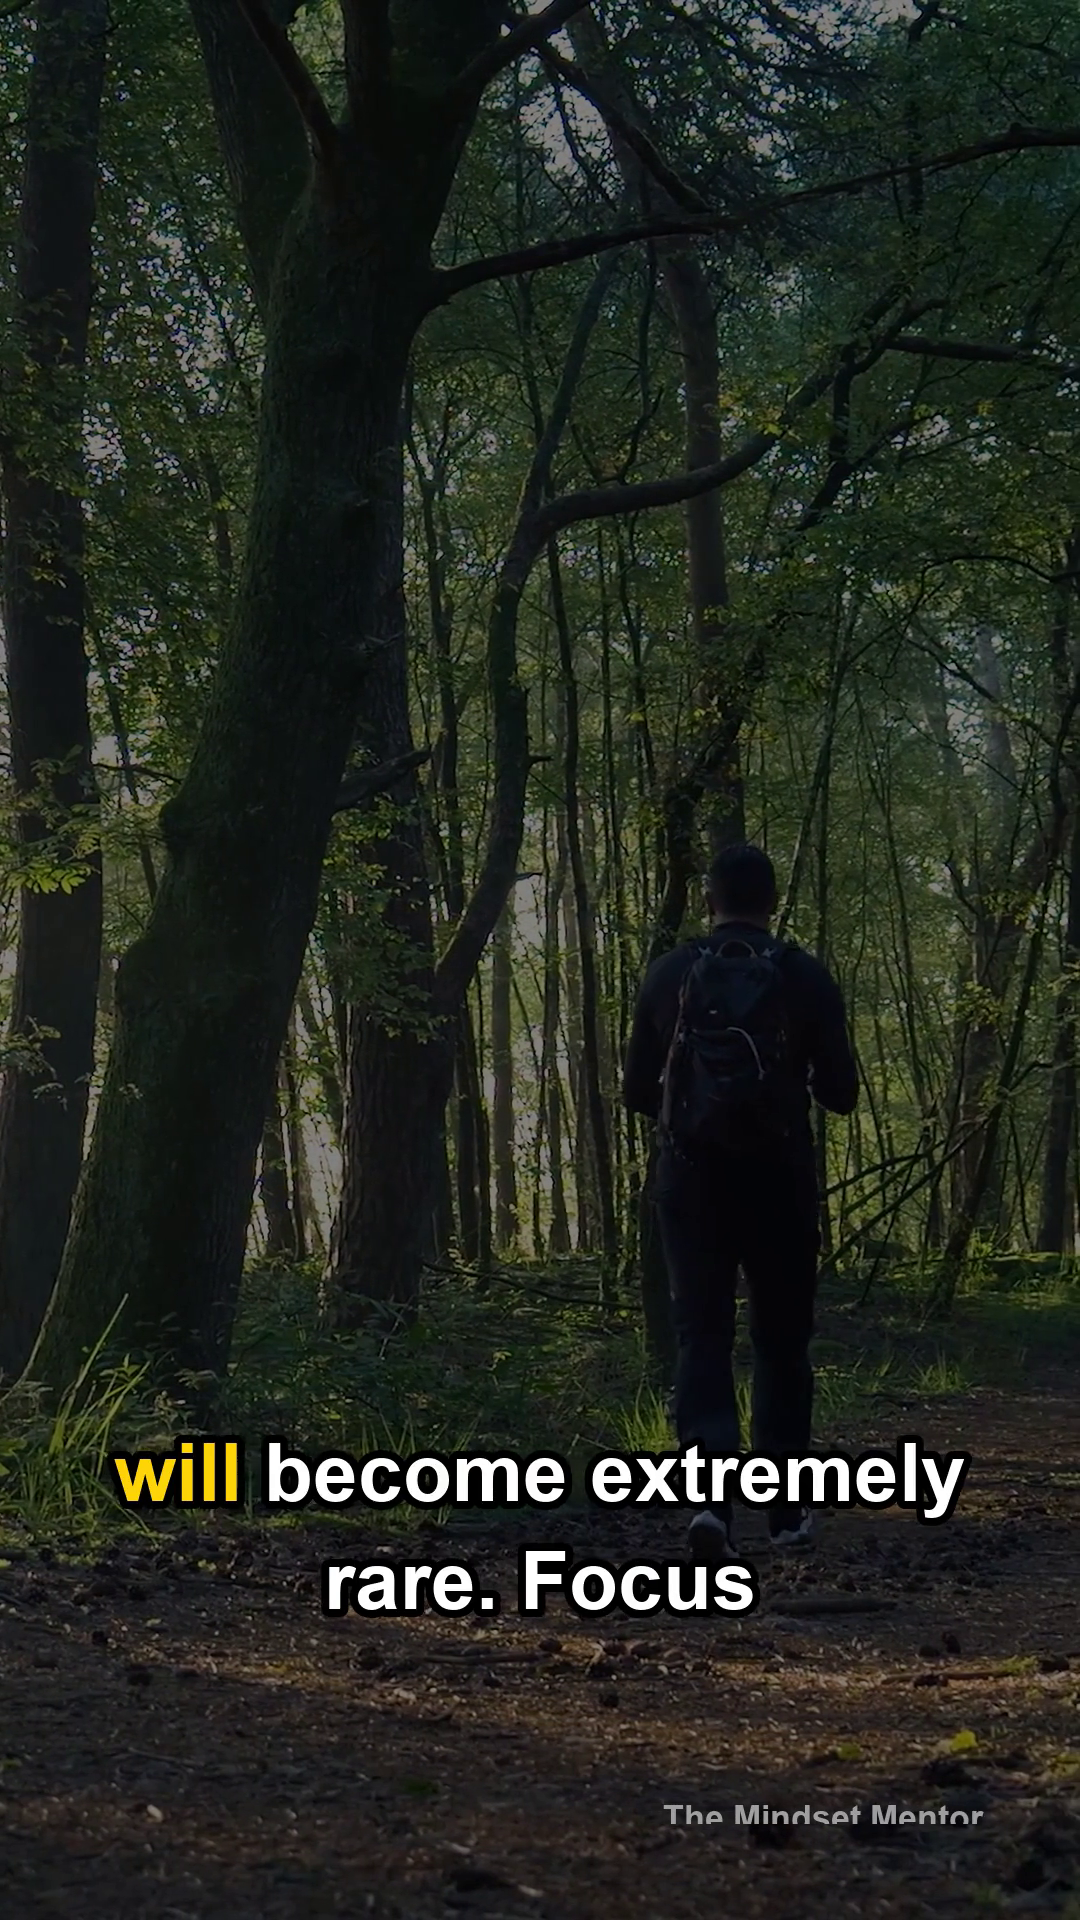
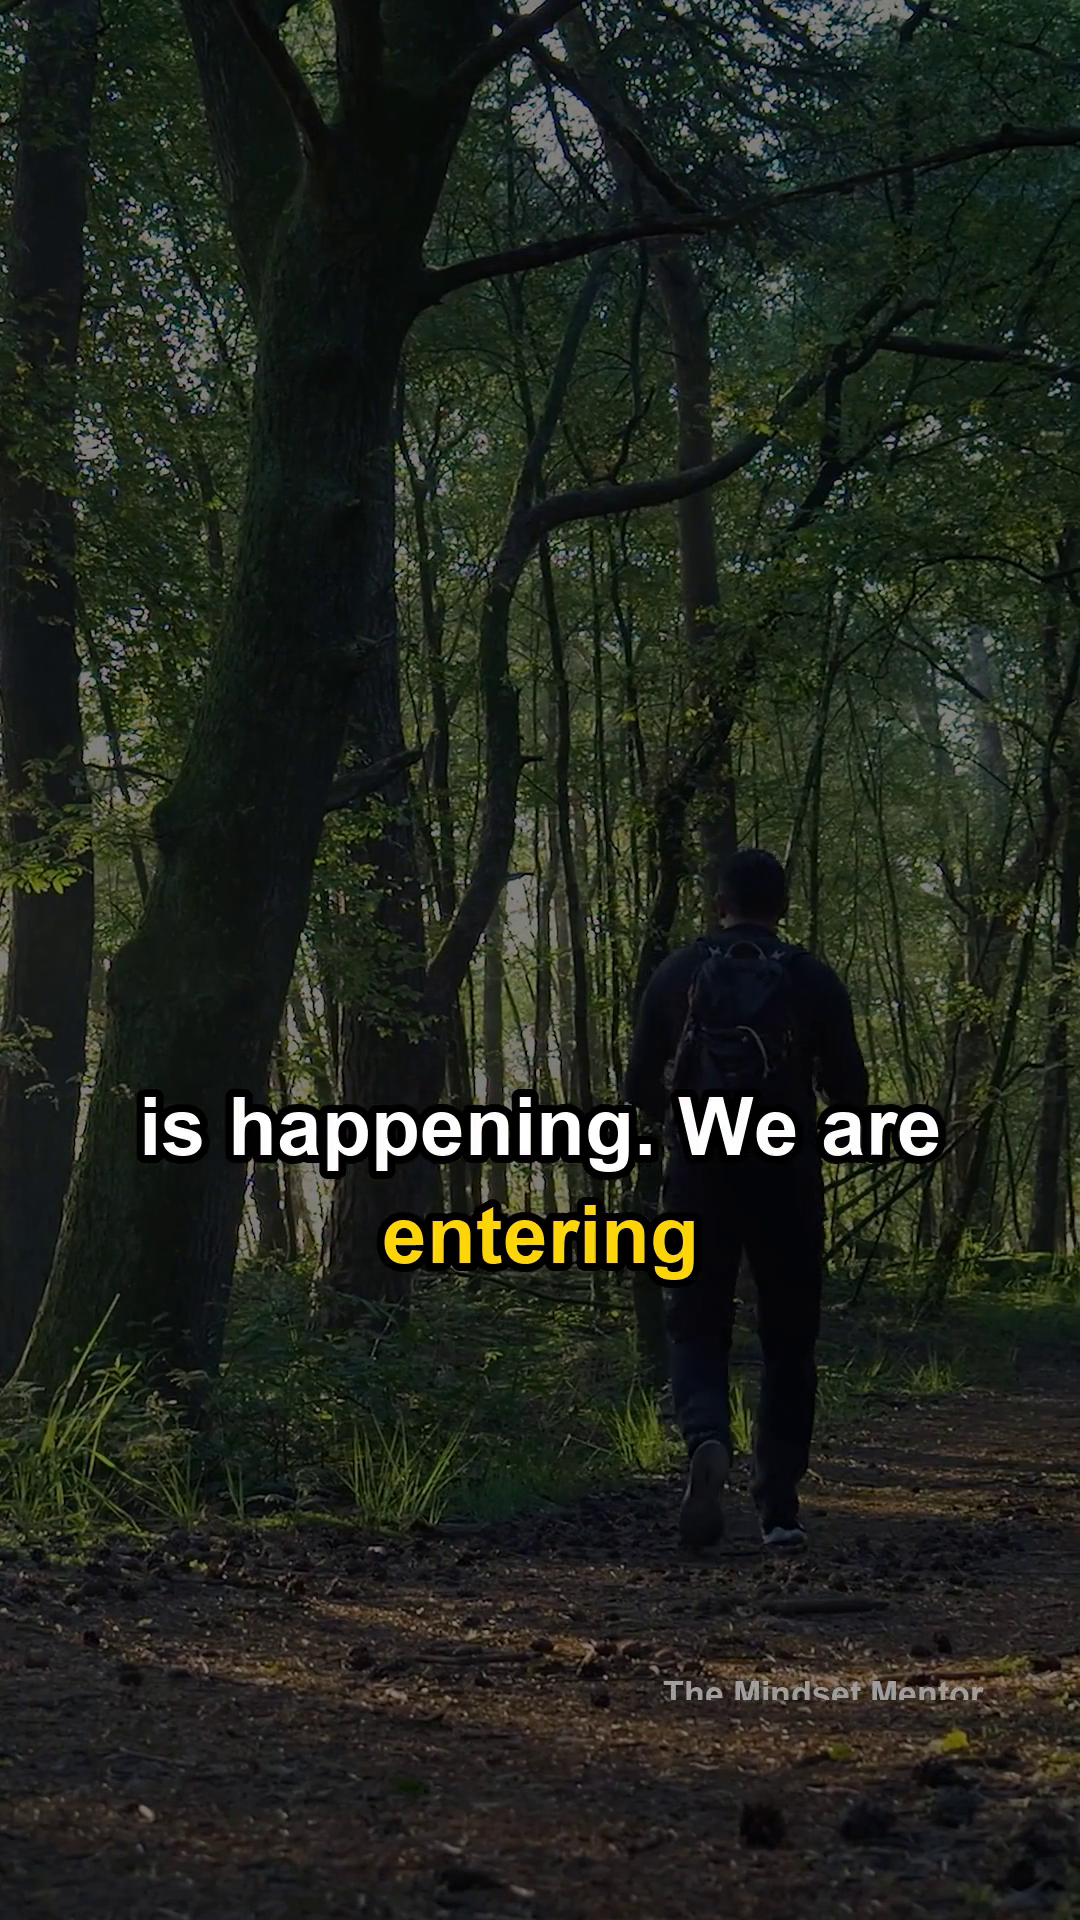
fixing bug for video context

diff --git a/modules/ai_extract.py b/modules/ai_extract.py
@@ -29,10 +29,14 @@ SYSTEM_PROMPT = (
     '  "best_quote"  : string — the most quotable verbatim line from the transcript.\n'
     '  "title"       : string — a punchy video title (<= 80 chars).\n'
     '  "clip_start"  : number — MUST be the exact start timestamp of one of the '
-    "segments in the provided list.\n"
+    "segments in the provided list, AND must fall at the BEGINNING of a complete "
+    "thought (the start of a sentence or idea), never mid-sentence.\n"
     '  "clip_end"    : number — MUST be the exact end timestamp of a LATER segment '
-    "in the list. The window (clip_end - clip_start) MUST be between "
-    f"{config.CLIP_WINDOW_MIN_SECONDS} and {config.CLIP_WINDOW_MAX_SECONDS} seconds.\n"
+    "in the list, AND must fall at the END of a complete thought or conclusion. "
+    "The clip MUST contain a full, self-contained idea WITH its payoff. NEVER cut "
+    "off mid-sentence, and NEVER end on a setup/cliffhanger such as \"...this is "
+    "what I want you to do\" or \"...here's the thing\" without the actual point "
+    "that follows. The last segment must deliver the resolution, not tee it up.\n"
     '  "hashtags"    : array of strings — 3 to 8 relevant hashtags, each '
     'starting with "#".\n'
     '  "image_prompts": array of exactly 4 strings — cinematic visual '
@@ -51,6 +55,16 @@ SYSTEM_PROMPT = (
     'trail", "morning coffee desk", "gym workout dark". Keep them concrete and '
     "visual, NOT abstract concepts. They should match the same themes as the "
     "image_prompts.\n\n"
+    "Clip length: aim for a window of "
+    f"{config.CLIP_WINDOW_MIN_SECONDS}-{config.CLIP_WINDOW_MAX_SECONDS} seconds. "
+    "You may run slightly longer, but (clip_end - clip_start) MUST NEVER exceed "
+    f"{config.CLIP_WINDOW_MAX_HARD_SECONDS} seconds under ANY circumstances. "
+    "Within that hard limit, COMPLETENESS BEATS EXACT LENGTH: prefer a contiguous "
+    "run of segments that forms a complete mini-story or a complete piece of "
+    "advice (setup AND payoff) over hitting a precise duration. If a complete "
+    f"thought will not fit within {config.CLIP_WINDOW_MAX_HARD_SECONDS} seconds, "
+    "pick a SHORTER self-contained thought that does fit — do NOT exceed the "
+    "limit to capture a longer passage.\n\n"
     "The transcript is given as timestamped segments, one per line, formatted "
     "[start-end] text. Choose a contiguous run of segments that forms a "
     "self-contained, compelling moment, and set clip_start to that run's first "
@@ -123,12 +137,66 @@ def _validate(data: dict) -> None:
         raise ValueError("'search_queries' must be non-empty strings")
 
     window = data["clip_end"] - data["clip_start"]
-    lo, hi = config.CLIP_WINDOW_MIN_SECONDS, config.CLIP_WINDOW_MAX_SECONDS
+    lo, hi = config.CLIP_WINDOW_MIN_SECONDS, config.CLIP_WINDOW_MAX_HARD_SECONDS
     if not (lo <= window <= hi):
         raise ValueError(
             f"clip window {window:.1f}s outside allowed range [{lo}, {hi}]s "
             f"(start={data['clip_start']}, end={data['clip_end']})"
         )
+
+
+_SENTENCE_END = (".", "!", "?")
+
+
+def _ends_sentence(word: str) -> bool:
+    """True if a word token ends a sentence (terminal punctuation, ignoring
+    any trailing quote/bracket characters)."""
+    return word.rstrip("\"')]}").endswith(_SENTENCE_END)
+
+
+def _snap_to_sentences(data: dict, words: list) -> None:
+    """Snap clip_start/clip_end onto real sentence boundaries (in place).
+
+    Groq Whisper word tokens carry punctuation, so we snap to word timestamps at
+    sentence edges rather than to coarse Whisper *segment* edges (which routinely
+    fall mid-sentence and would leave the clip ending on a cliffhanger).
+
+    clip_start -> the start time of the nearest sentence-opening word.
+    clip_end   -> the end time of the nearest sentence-closing word.
+
+    Because both targets are word boundaries, the clip never cuts a word in half;
+    because they are sentence edges, it never opens or ends mid-thought.
+    """
+    ws = [
+        w for w in words
+        if w.get("start") is not None and w.get("end") is not None and (w.get("word") or "").strip()
+    ]
+    if not ws:
+        return
+
+    # End times of words that close a sentence.
+    end_times = [w["end"] for w in ws if _ends_sentence(w["word"])]
+    # Start times of words that open a sentence (first word, or after a closer).
+    start_times = [ws[0]["start"]] + [
+        ws[i]["start"] for i in range(1, len(ws)) if _ends_sentence(ws[i - 1]["word"])
+    ]
+    if not end_times or not start_times:
+        return
+
+    cs, ce = data["clip_start"], data["clip_end"]
+    new_start = min(start_times, key=lambda t: abs(t - cs))
+    new_end = min(end_times, key=lambda t: abs(t - ce))
+
+    # Guard against a degenerate snap (end at/before start): fall back to raw end.
+    if new_end <= new_start:
+        new_end = ce
+
+    if (new_start, new_end) != (cs, ce):
+        logger.info(
+            "Snapped clip to sentence boundaries: %.2f-%.2f -> %.2f-%.2f",
+            cs, ce, new_start, new_end,
+        )
+    data["clip_start"], data["clip_end"] = new_start, new_end
 
 
 def _format_segments(segments: list) -> str:
@@ -179,6 +247,18 @@ def extract_highlights(transcript: dict) -> dict:
     raw = next((b.text for b in response.content if b.type == "text"), "")
     parsed = json.loads(_strip_to_json(raw))
     _validate(parsed)
+
+    # Snap onto real sentence boundaries so the clip never cuts a word in half
+    # and never opens/ends mid-thought.
+    words = transcript.get("words") if isinstance(transcript, dict) else None
+    if words:
+        _snap_to_sentences(parsed, words)
+        window = parsed["clip_end"] - parsed["clip_start"]
+        if window > config.CLIP_WINDOW_MAX_HARD_SECONDS:
+            logger.warning(
+                "Snapped clip window %.1fs exceeds hard max %ds",
+                window, config.CLIP_WINDOW_MAX_HARD_SECONDS,
+            )
 
     logger.info("Extracted clip: %.1f-%.1fs | title=%r", parsed["clip_start"], parsed["clip_end"], parsed["title"])
     return parsed

diff --git a/config.py b/config.py
@@ -54,9 +54,13 @@ MAX_CLIPS_PER_EPISODE = 5
 # Using its drop-in replacement, the current Sonnet.
 EXTRACT_MODEL = "claude-sonnet-4-6"
 EXTRACT_MAX_TOKENS = 2000
-# Target clip window the model must pick, in seconds.
+# Target clip window the model should aim for, in seconds.
 CLIP_WINDOW_MIN_SECONDS = 45
 CLIP_WINDOW_MAX_SECONDS = 65
+# Hard upper bound: the model may run longer than the target ONLY to finish a
+# complete thought (completeness beats exact length). Snapping clip_end to a
+# segment boundary can also push past the target, so validation allows up to here.
+CLIP_WINDOW_MAX_HARD_SECONDS = 75
 
 # --- Slide dimensions (pixels) ---
 # Vertical 9:16 for Reels/Shorts; switch to 1920x1080 for landscape YouTube.
@@ -113,7 +117,7 @@ CAPTION_STROKE_COLOR = (0, 0, 0)         # black outline
 CAPTION_STROKE_WIDTH = 8
 CAPTION_WORDS_PER_GROUP = 5              # max words shown at once
 CAPTION_GROUP_GAP = 0.7                  # a pause longer than this starts a new group
-CAPTION_CENTER_Y = 0.80                  # vertical center of the caption block (lower 35%)
+CAPTION_CENTER_Y = 0.62                  # vertical center of caption block; kept above the Reels/Shorts bottom UI
 CAPTION_LINE_SPACING = 1.2
 
 # Hook text (top of frame, first few seconds only).
@@ -122,6 +126,8 @@ HOOK_COLOR = "white"
 HOOK_DURATION = 3.0                  # seconds
 HOOK_TOP = 0.08                      # fraction of height
 
-# Podcast-name watermark (bottom-right, muted).
+# Podcast-name watermark (right side, muted). Kept well inside the safe area —
+# the bottom of the text sits at WATERMARK_BASELINE_Y so there's clear padding below.
 WATERMARK_FONT_SIZE = 34
 WATERMARK_COLOR = (160, 160, 160)
+WATERMARK_BASELINE_Y = 1700              # px (of 1920): bottom edge of the watermark text

diff --git a/modules/video_gen.py b/modules/video_gen.py
@@ -350,7 +350,11 @@ def build_video(
                 color=config.WATERMARK_COLOR,
             ).with_duration(window)
             ww, wh = wm.size
-            wm = wm.with_position((w - margin - ww, h - margin - wh))
+            # Bottom edge at WATERMARK_BASELINE_Y (clear padding below); clamp x
+            # so the full text never runs off the left even if it's wide.
+            wm_x = max(margin, w - margin - ww)
+            wm_y = config.WATERMARK_BASELINE_Y - wh
+            wm = wm.with_position((wm_x, wm_y))
             layers.append(wm)
 
         video = CompositeVideoClip(layers, size=(w, h)).with_audio(clip_audio).with_duration(window)

diff --git a/CLAUDE.md b/CLAUDE.md
@@ -1,0 +1,82 @@
+# CLAUDE.md
+
+This file provides guidance to Claude Code (claude.ai/code) when working with code in this repository.
+
+## What this is
+
+A podcast-to-short-form-video pipeline. For the latest episode of an RSS feed it:
+ingest → transcribe → AI clip plan → pick background → render a vertical karaoke-captioned MP4 → upload → publish.
+
+Windows-first (font paths, PowerShell setup). Python 3.12.
+
+## Commands
+
+Always use the venv interpreter explicitly — there is no activated shell assumed:
+
+```powershell
+# Full pipeline (see "main.py is stale" gotcha below before relying on this)
+.\venv\Scripts\python.exe main.py mindset_mentor      # feed key from config.PODCAST_FEEDS
+.\venv\Scripts\python.exe main.py https://...rss       # or a raw RSS URL
+
+# Install deps
+.\venv\Scripts\python.exe -m pip install -r requirements.txt
+```
+
+### Running / "testing" individual stages
+
+There is **no pytest suite**. Each module under `modules/` has a `__main__` smoke harness that *is* the test — run a stage in isolation from the repo root:
+
+```powershell
+.\venv\Scripts\python.exe -m modules.rss_ingest     # fetch + download latest episode -> tmp/
+.\venv\Scripts\python.exe -m modules.transcribe      # transcribe newest tmp/*.mp3
+.\venv\Scripts\python.exe -m modules.ai_extract      # transcribe + extract clip plan
+.\venv\Scripts\python.exe -m modules.slide_gen       # render slides from built-in SAMPLE_HIGHLIGHTS (no API calls)
+.\venv\Scripts\python.exe -m modules.pexels_bg       # fetch stock backgrounds from cached plan
+.\venv\Scripts\python.exe -m modules.image_gen       # generate Gemini/gradient backgrounds from cached plan
+.\venv\Scripts\python.exe -m modules.video_gen       # full render of newest episode + sample frames
+```
+
+These harnesses run downstream-to-upstream and assume upstream artifacts already exist in `tmp/` (e.g. `video_gen` needs an MP3 from `rss_ingest`). `slide_gen` is the only one runnable with zero setup.
+
+## Architecture
+
+### Linear pipeline, config-driven
+
+`main.py` orchestrates a fixed sequence; every module is a thin function taking/returning plain dicts and file paths. **`config.py` is the single source of truth** for all paths, dimensions, feed URLs, model IDs, and tuning constants — modules import from it rather than hardcoding. Change behavior there, not in module bodies.
+
+Data contract flowing through the pipeline:
+- `transcribe.transcribe()` → `{"text", "segments":[{start,end,text}], "words":[{word,start,end}]}`
+- `ai_extract.extract_highlights()` → validated JSON: `hook, insights[3], best_quote, title, clip_start, clip_end, hashtags, image_prompts[4], search_queries[4]`. The schema is enforced by `_validate()`; `clip_start`/`clip_end` must be real segment timestamps and the window must fall within `CLIP_WINDOW_MIN/MAX_SECONDS`.
+
+### Background selection — ordered fallback chain
+
+`background.select_backgrounds()` is a degrade-never chain (see `modules/background.py`):
+1. **Pexels stock video** (`pexels_bg`, primary) — needs `PEXELS_API_KEY`; returns `None` if it yields nothing.
+2. **Gemini AI image** (`image_gen`) — model fallback chain in `IMAGE_MODELS`.
+3. **Local gradient PNGs** (`image_gen` fallback) — always succeeds.
+
+The returned list is **homogeneous**: either all `.mp4` (video) or all `.png` (image). `video_gen._background_layers()` dispatches on the first path's extension, so never mix types. Known constraint: the Gemini image quota on this account hard-429s, so image_gen almost always falls through to gradients.
+
+### video_gen is the core
+
+`modules/video_gen.py` builds the 1080×1920 karaoke clip and is the most intricate file:
+- **MoviePy v2 API** — flat imports (`from moviepy import ...`), fluent `.with_*` / `.resized` / `.cropped` methods, and `vfx.CrossFadeIn` / `vfx.Loop` effect objects. Do not use MoviePy v1 patterns (`set_*`, `crossfadein=`).
+- Word-level captions: `group_words()` chunks `words` into groups, `_render_block()` draws each group to an RGBA array with the active word highlighted (Pillow, not MoviePy TextClip, for per-word styling).
+- Backgrounds get a Ken Burns zoom/pan (`_ken_burns_clip`) + crossfade + 50% dark overlay.
+- Fonts are loaded from `C:\Windows\Fonts` (`arialbd.ttf` etc.) — this is Windows-specific.
+
+### Caching to avoid burning API credits
+
+The `video_gen` harness writes `tmp/<basename>.plan.json` = `{transcript, highlights}` and reuses it on re-runs, so Groq/Claude are only hit once per episode. `pexels_bg` and `image_gen` cache `tmp/bg_<n>.{mp4,png}` per index. Pass `force=True` to regenerate. When iterating on rendering, rely on these caches rather than re-running upstream stages.
+
+## External services & secrets
+
+Copy `.env.example` → `.env`. Keys grouped: Anthropic + Groq + Gemini (AI), Pexels (backgrounds), Cloudflare R2 (storage, S3-compatible via boto3), YouTube Data API (OAuth), Meta Graph API (Instagram Reels). Modules call `load_dotenv()` themselves so they work standalone.
+
+Model IDs (in `config.py` / module constants): Claude `claude-sonnet-4-6`, Groq `whisper-large-v3`, Gemini image `gemini-2.5-flash-image`. The original `claude-sonnet-4-20250514` 404s on this account (retired) — keep the replacement.
+
+## Gotchas / current state
+
+- **`main.py` is stale and does not run end-to-end.** It calls `rss_ingest.download_audio(episode)` (no such function — `fetch_latest` already downloads and returns `audio_path`) and reads keys like `episode["show_title"]` that `fetch_latest` never produces. The working, exercised entrypoints today are the per-module `__main__` harnesses, especially `python -m modules.video_gen`. If you wire up the real end-to-end run, reconcile `main.py` against the actual module signatures.
+- **`youtube_publish.publish()` and `instagram_publish.publish()` raise `NotImplementedError`** — only scaffolds with TODOs. `storage.upload()` (R2) is implemented.
+- **`slide_gen` output is not consumed by `video_gen`.** Slides are a separate static-deck artifact; the published clip is the karaoke video. Don't assume slides feed the video.
